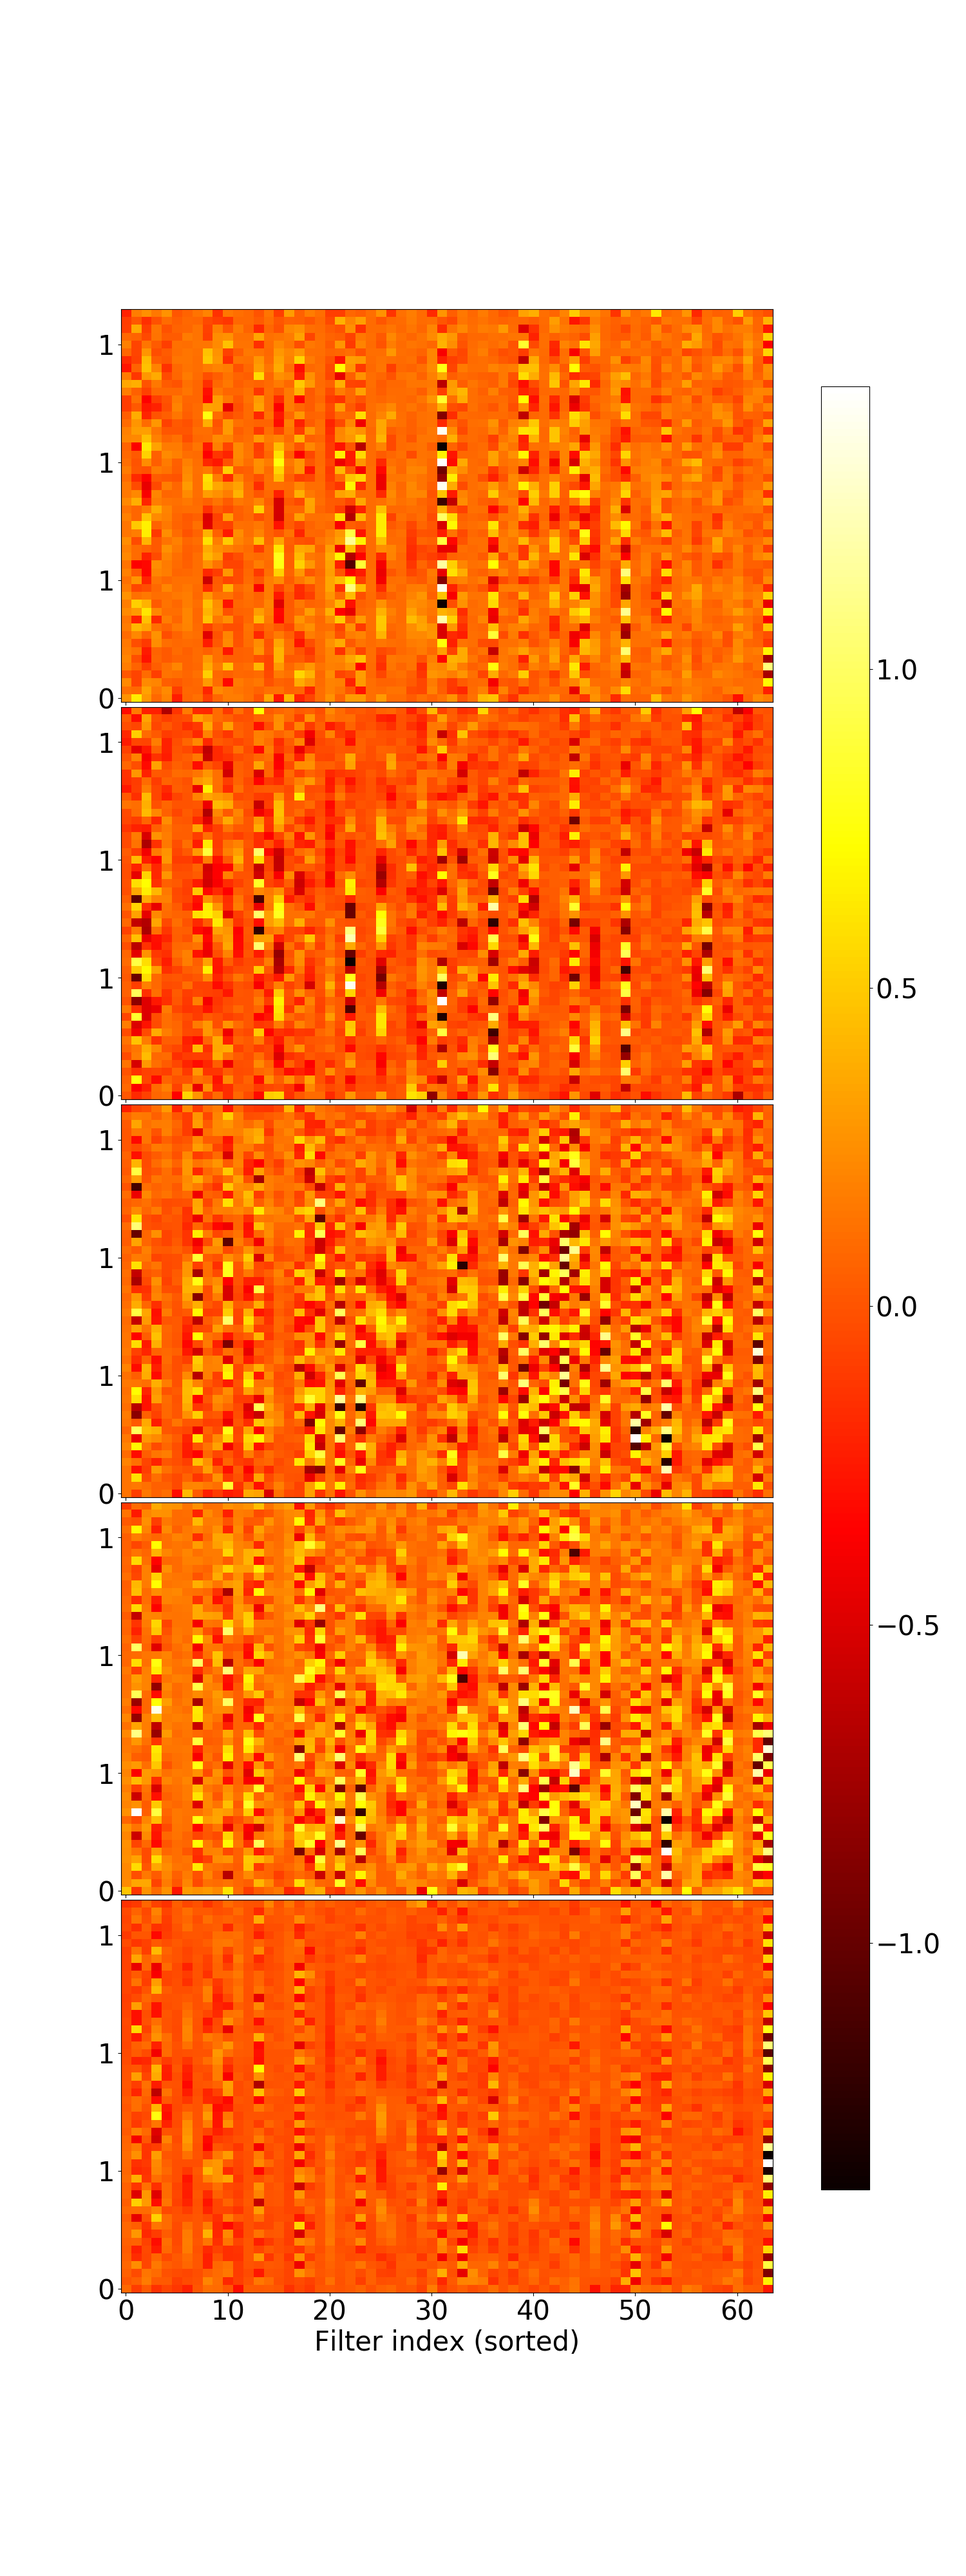
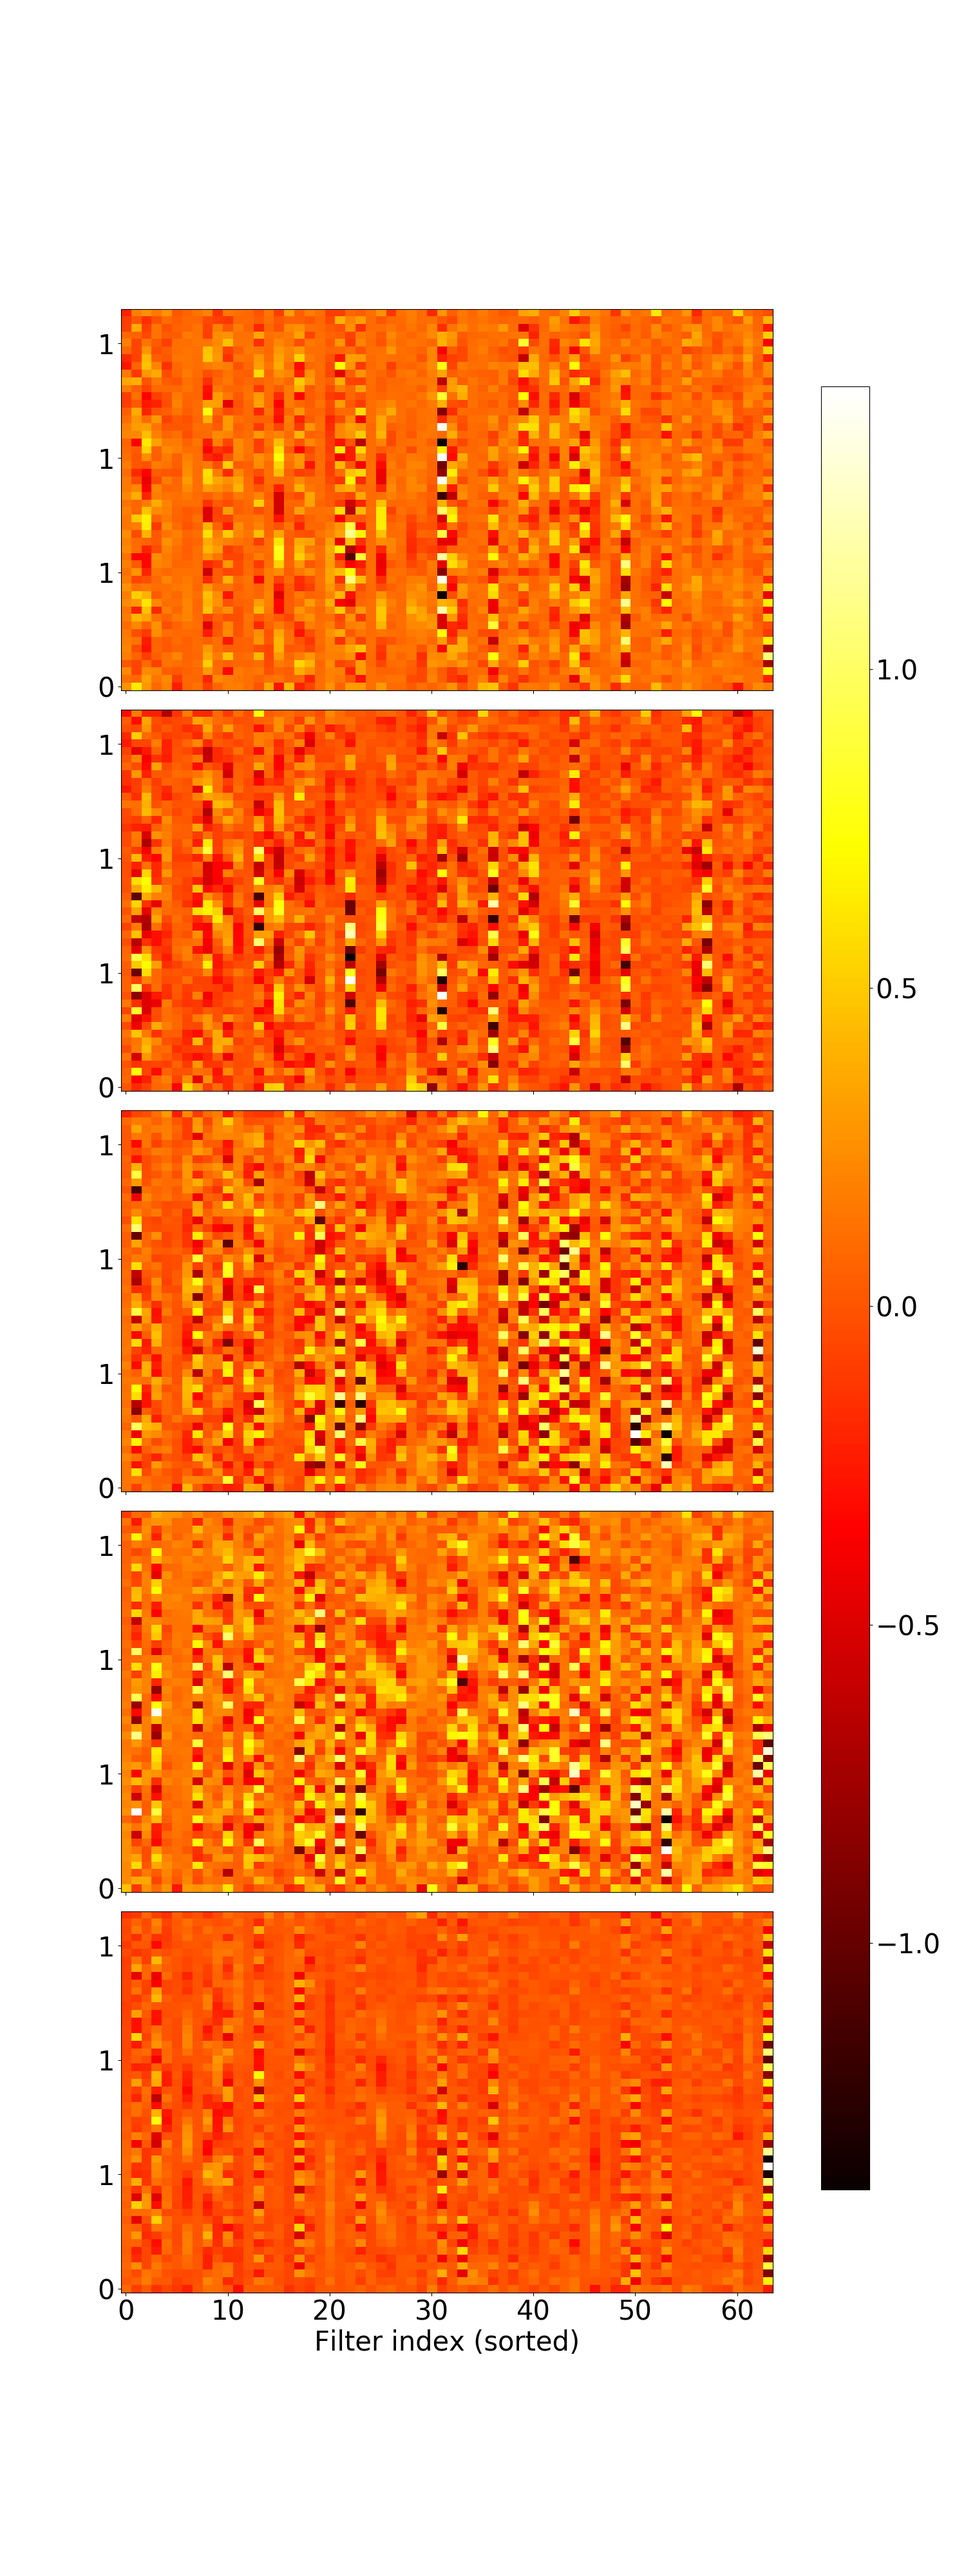
up

Changed region(s): [[0.1227, 0.3125, 0.7973, 0.6875], [0.092, 0.125, 0.7973, 0.2812], [0.1227, 0.7188, 0.7973, 0.875]]

diff --git a/returnnTfNetworkLayerPlotter.py b/returnnTfNetworkLayerPlotter.py
@@ -532,9 +532,9 @@ class Plotter(object):
             axs[-1][epochRangeIdx].set_xlabel('Filter index (sorted)')
 #                axs[dimInputIdx][epochRangeIdx].set_xlabel('filterIdx_' + mode + '_for epoch' + '_' + '%03d' % (self.epochRangeToPlot[epochRangeIdx],))
 
-        fig.subplots_adjust(hspace=0.0125)
+        fig.subplots_adjust(hspace=0.05)
         fig.subplots_adjust(right=0.8)
-        plt.setp([a.get_xticklabels() for a in fig.axes[:-1]], visible=False)
+#        plt.setp([a.get_xticklabels() for a in fig.axes[:-1]], visible=False)
 
         cbar_ax = fig.add_axes([0.85, 0.15, 0.05, 0.7])
         fig.colorbar(im, cax=cbar_ax)
